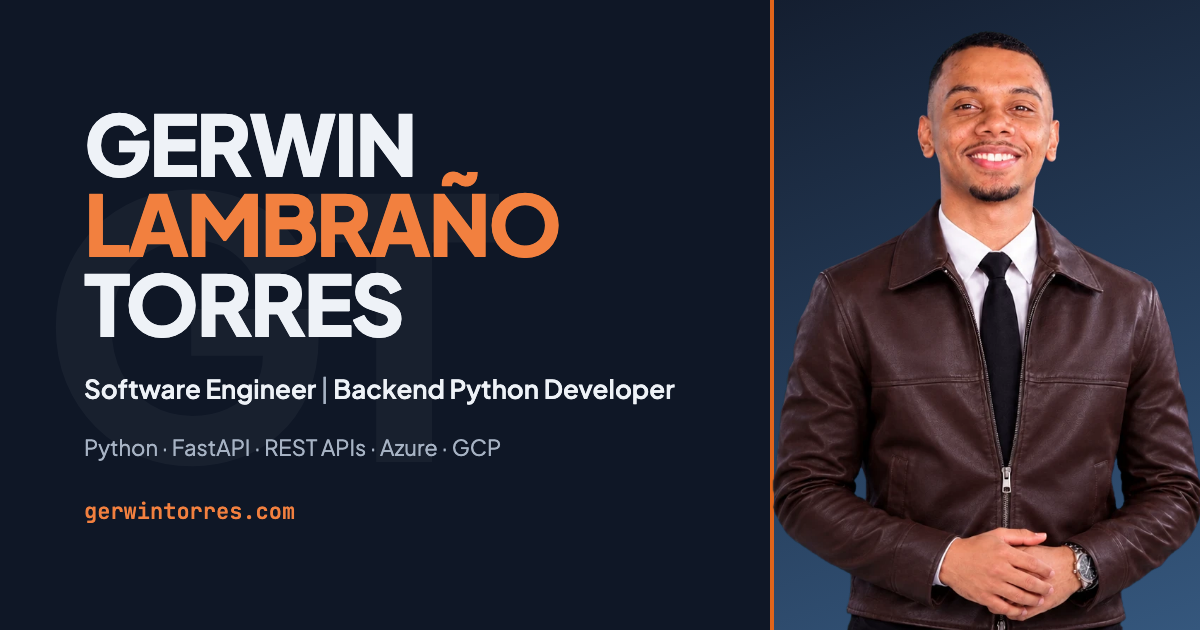
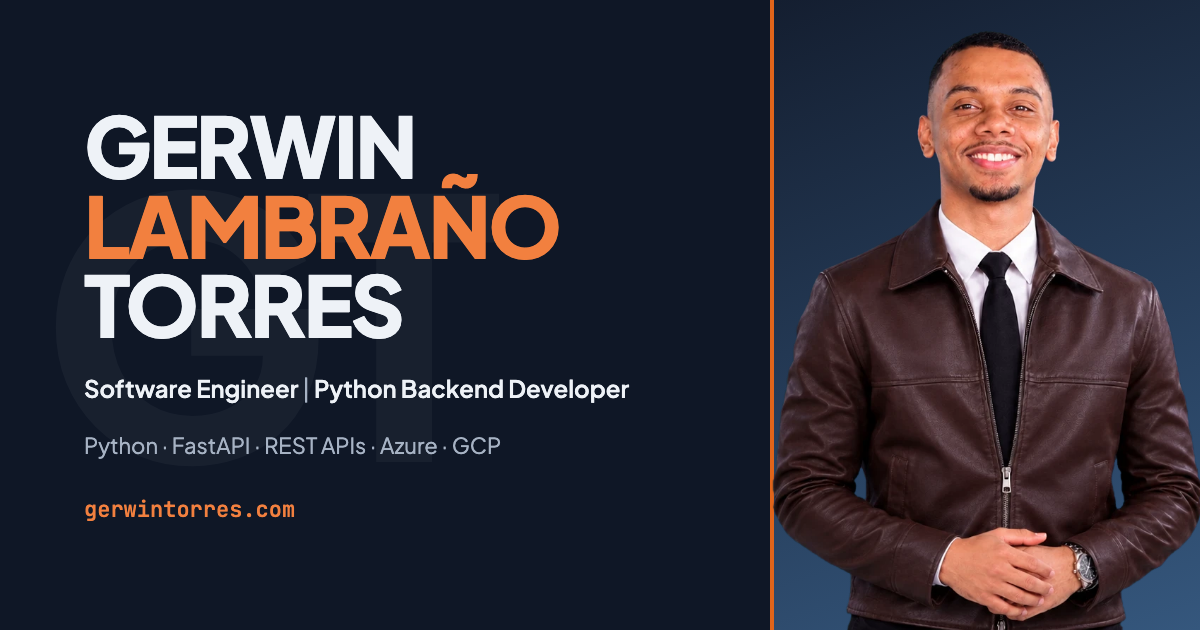
feat(og): use the new role in the social preview images

diff --git a/scripts/og/template.html b/scripts/og/template.html
@@ -80,7 +80,7 @@
 
       .role {
         color: #eef2f7;
-        font-size: 26px;
+        font-size: 24px;
         font-weight: 600;
         white-space: nowrap;
       }
@@ -135,8 +135,8 @@
     </div>
     <script>
       const roles = {
-        en: ["Software Engineer", "Backend Python Developer"],
-        es: ["Ingeniero de Software", "Backend Python Developer"],
+        en: ["Software Engineer", "Python Backend Developer"],
+        es: ["Ingeniero de Software", "Desarrollador Backend Python"],
       };
       const lang = new URLSearchParams(location.search).get("lang") === "es" ? "es" : "en";
       document.documentElement.lang = lang;
